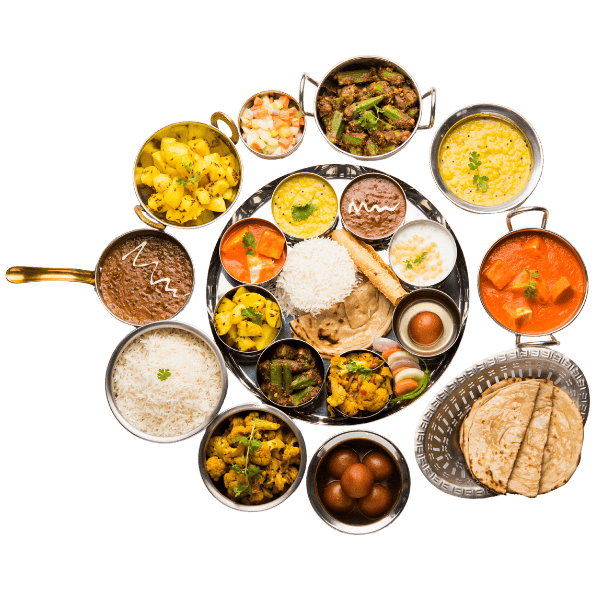
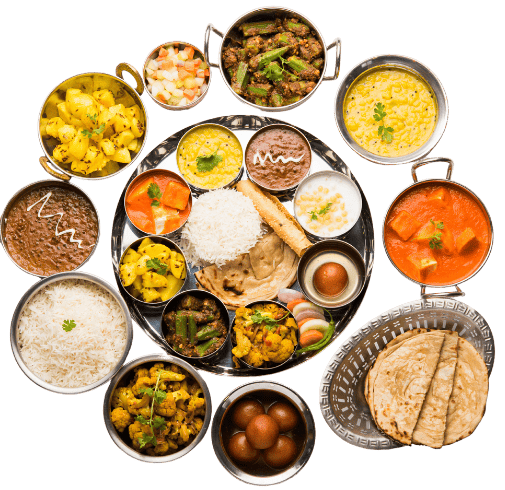
new css

diff --git a/index.html b/index.html
@@ -139,13 +139,13 @@
     <div class="container">
         <div class="row">
 
-            <div class="col-md-6 col-lg-6 col-12">
+            <div class="col-md-12 col-lg-6 col-12">
                 <div class="main_banner">
                     <img src="img/thali.png" alt="" >
                 </div>
             </div>
 
-            <div class="col-md-6 col-lg-6 col-12">
+            <div class="col-md-12 col-lg-6 col-12">
                 <div class="main_banner_text">
                     <h1>Healthy Meals Delivered to Your Doorstep</h1>
                     <p>Experience the convenience of healthy meal delivery with our customizable meal plans. Enjoy delicious, nutritious meals tailored to your dietary preferences.</p>
@@ -170,10 +170,10 @@
                         </div>
                     </div> -->
 
-                    <img src="img/ldp_leaf-3.png" alt="" class="b1 bb1">
+                    <!-- <img src="img/ldp_leaf-3.png" alt="" class="b1 bb1">
                     <img src="img/ldp_leaf-2.png" alt="" class="b1 bb2">
                     <img src="img/ldp_leaf-2.png" alt="" class="b1 bb21">
-                    <img src="img/ldp_layer1-4.png" alt="" class="b1 bb3">
+                    <img src="img/ldp_layer1-4.png" alt="" class="b1 bb3"> -->
 
                 </div>
             </div>

diff --git a/css/style.css b/css/style.css
@@ -100,8 +100,8 @@ header{
     display: flex;
     justify-content: center;
     align-items: center;
-    height: 90vh;
     background-color: #e9ffeb;
+    padding: 90px 20px;
 }
 
 .main_banner{
@@ -119,7 +119,7 @@ header{
 }
 
 .main_banner img{
-    width: 100%;
+    width: 80%;
     max-width: 600px;
     filter: drop-shadow(0 4px 8px rgba(0, 0, 0, 0.733));
 }
@@ -255,6 +255,34 @@ header{
 }
 
 /* ==========responsive========= */
+@media (max-width: 991px) {
+
+    .banner{
+    padding: 70px 20px;
+}
+
+    .main_banner_text {
+    display: flex;
+    align-items: center !important;
+    text-align: center;
+}
+
+.main_banner img {
+    width: 60%;
+}
+
+.main_banner_text h1 {
+    font-family: "Poppins", sans-serif;
+    font-weight: 800;
+    font-size: 36px;
+    color: #18681c;
+    width: 70%;
+}
+
+.main_banner_text p {
+    font-size: 14px;
+}
+}
 
 
 @media (max-width: 525px) {
@@ -274,7 +302,7 @@ header{
     width: 100px;
 }
 .banner{
-    height: 95vh;
+    padding: 50px 10px;
 }
 .main_banner img{
     width: 85%;
@@ -356,6 +384,10 @@ header{
     font-size: 12px;
     font-weight: bold;
     cursor: pointer;
+}
+
+#vegetarian-plans .btn:hover{
+    background-color: #28a745 !important;
 }
 
 .meal-features p {
